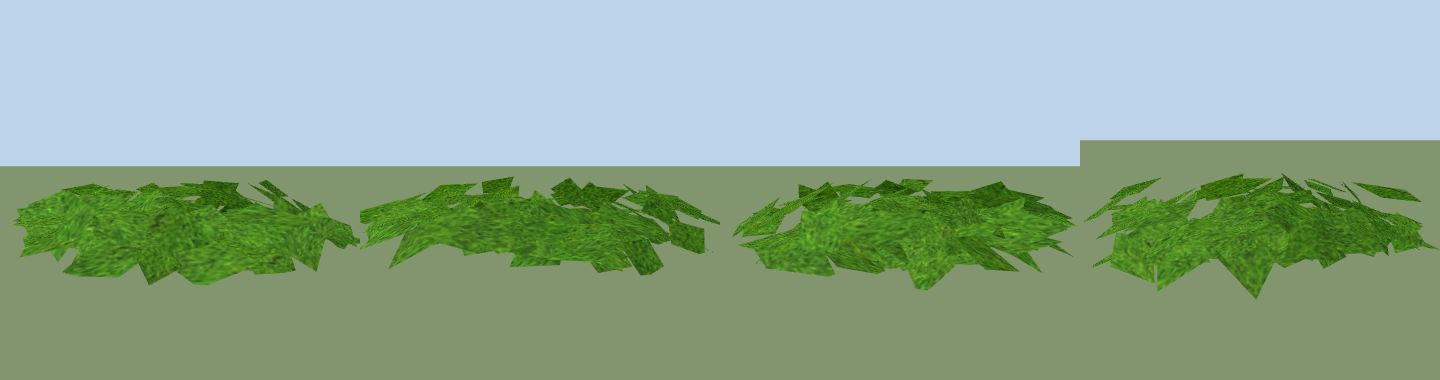
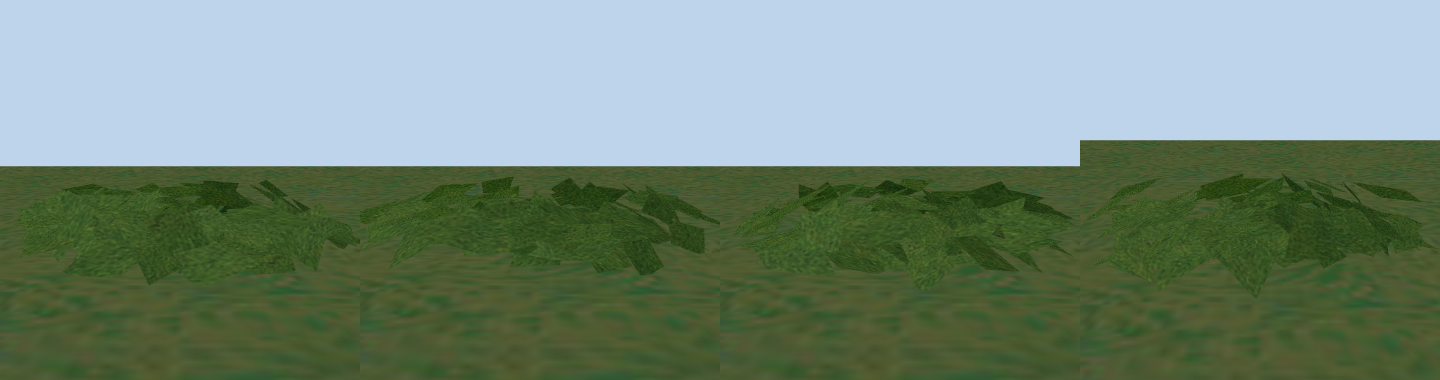
Tone-match ground-cover texture to terrain grass
Recolour foliage.jpg to the terrain grass palette (textures/grass.jpg) with a
per-channel Reinhard transfer so groundcover_opaque blends into the ground
instead of reading as a brighter, more saturated green. The preview floor now
uses the real grass.jpg texture, so the contact sheet doubles as a blend check.

Claude-Session: https://claude.ai/code/session_01VP8FvoPKhNJeQoL3WgzXTn

diff --git a/rally/models/vegetation/README.md b/rally/models/vegetation/README.md
@@ -14,7 +14,9 @@ mobile. UVs sample small green windows of the tiling foliage texture for colour
 variety; the material is two-sided but fully opaque (no blending).
 
 A 4-angle preview contact sheet (front-¾, side, back-¾, elevated hero) is in
-`previews/`.
+`previews/`. The preview floor uses the real terrain texture
+(`res://textures/grass.jpg`) so the contact sheet doubles as a colour-blend
+check against the ground.
 
 ## How it was made
 
@@ -37,6 +39,11 @@ xvfb-run -a godot --path rally --rendering-driver opengl3 \
 (`examples/textures/terrain/grasslight-big.jpg`), licensed **CC-BY-3.0**
 (http://creativecommons.org/licenses/by/3.0/), originally from opengameart.org.
 Attribution is required by the licence.
+
+Its colours were **tonally matched to the terrain grass** (`textures/grass.jpg`)
+with a per-channel Reinhard transfer (shift each channel's mean/std toward the
+grass palette, ~1.5× variation retained) so the ground cover blends into the
+ground instead of reading as a brighter, more saturated green.
 
 The `groundcover_opaque__albedo.png` next to the `.glb` is Godot's import-time
 extraction of the embedded texture (regenerated on import).